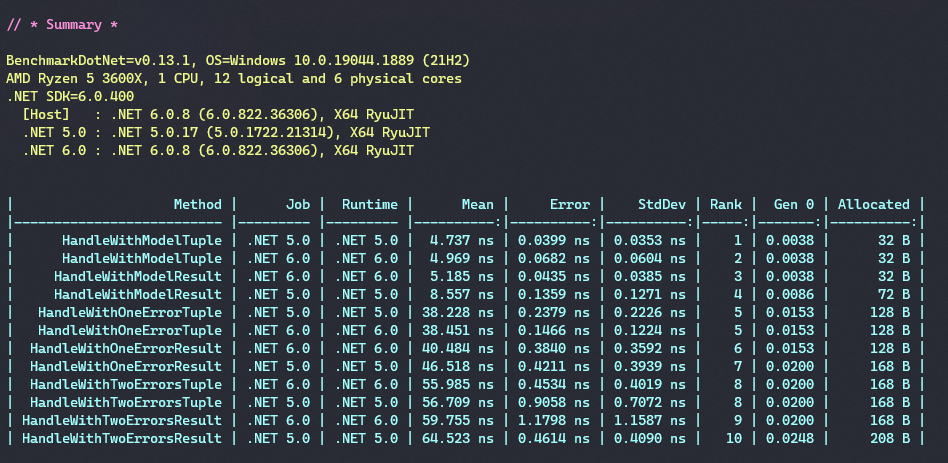
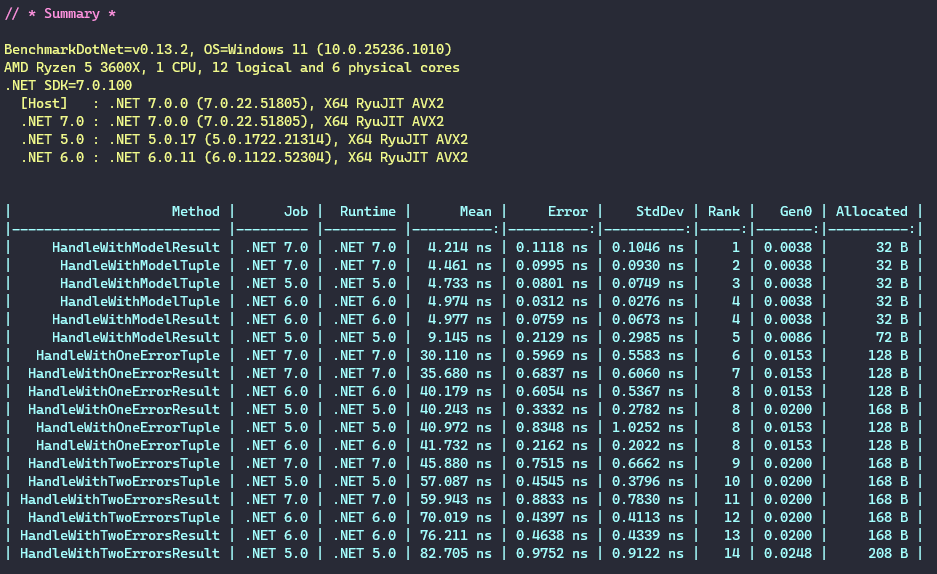
docs: Run the benchmarks for .NET7

Changed region(s): [[0.0, 0.0, 0.9904, 0.9978]]

diff --git a/tests/PowerUtils.Results.Benchmarks/Program.cs b/tests/PowerUtils.Results.Benchmarks/Program.cs
@@ -1,7 +1,7 @@
 using BenchmarkDotNet.Running;
 using PowerUtils.Results.Benchmarks.Tests;
 
-//BenchmarkRunner.Run<CreatingValueResultBenchmarks>();
+BenchmarkRunner.Run<CreatingValueResultBenchmarks>();
 
 //BenchmarkRunner.Run<CreatingErrorVoidResultBenchmarks>();
 //BenchmarkRunner.Run<CreatingErrorValueResultBenchmarks>();
@@ -12,4 +12,4 @@ using PowerUtils.Results.Benchmarks.Tests;
 //BenchmarkRunner.Run<TupleVsResultBenchmarks>();
 
 
-BenchmarkRunner.Run<CreatingVoidSuccessResultBenchmarks>();
+//BenchmarkRunner.Run<CreatingVoidSuccessResultBenchmarks>();

diff --git a/tests/PowerUtils.Results.Benchmarks/Tests/CreatingErrorValueResultBenchmarks.cs b/tests/PowerUtils.Results.Benchmarks/Tests/CreatingErrorValueResultBenchmarks.cs
@@ -7,6 +7,7 @@ namespace PowerUtils.Results.Benchmarks.Tests
 {
     [SimpleJob(RuntimeMoniker.Net50)]
     [SimpleJob(RuntimeMoniker.Net60)]
+    [SimpleJob(RuntimeMoniker.Net70)]
     [MemoryDiagnoser]
     [Orderer(SummaryOrderPolicy.FastestToSlowest)]
     [RankColumn]

diff --git a/tests/PowerUtils.Results.Benchmarks/Tests/CreatingErrorVoidResultBenchmarks.cs b/tests/PowerUtils.Results.Benchmarks/Tests/CreatingErrorVoidResultBenchmarks.cs
@@ -6,6 +6,7 @@ namespace PowerUtils.Results.Benchmarks.Tests
 {
     [SimpleJob(RuntimeMoniker.Net50)]
     [SimpleJob(RuntimeMoniker.Net60)]
+    [SimpleJob(RuntimeMoniker.Net70)]
     [MemoryDiagnoser]
     [Orderer(SummaryOrderPolicy.FastestToSlowest)]
     [RankColumn]

diff --git a/tests/PowerUtils.Results.Benchmarks/Tests/CreatingValueResultBenchmarks.cs b/tests/PowerUtils.Results.Benchmarks/Tests/CreatingValueResultBenchmarks.cs
@@ -7,6 +7,7 @@ namespace PowerUtils.Results.Benchmarks.Tests
 {
     [SimpleJob(RuntimeMoniker.Net50)]
     [SimpleJob(RuntimeMoniker.Net60)]
+    [SimpleJob(RuntimeMoniker.Net70)]
     [MemoryDiagnoser]
     [Orderer(SummaryOrderPolicy.FastestToSlowest)]
     [RankColumn]

diff --git a/tests/PowerUtils.Results.Benchmarks/Tests/CreatingVoidSuccessResultBenchmarks.cs b/tests/PowerUtils.Results.Benchmarks/Tests/CreatingVoidSuccessResultBenchmarks.cs
@@ -6,6 +6,7 @@ namespace PowerUtils.Results.Benchmarks.Tests
 {
     [SimpleJob(RuntimeMoniker.Net50)]
     [SimpleJob(RuntimeMoniker.Net60)]
+    [SimpleJob(RuntimeMoniker.Net70)]
     [MemoryDiagnoser]
     [Orderer(SummaryOrderPolicy.FastestToSlowest)]
     [RankColumn]

diff --git a/tests/PowerUtils.Results.Benchmarks/Tests/FactoryResultFromErrorOrValueBenchmarks.cs b/tests/PowerUtils.Results.Benchmarks/Tests/FactoryResultFromErrorOrValueBenchmarks.cs
@@ -8,6 +8,7 @@ namespace PowerUtils.Results.Benchmarks.Tests
 {
     [SimpleJob(RuntimeMoniker.Net50)]
     [SimpleJob(RuntimeMoniker.Net60)]
+    [SimpleJob(RuntimeMoniker.Net70)]
     [MemoryDiagnoser]
     [Orderer(SummaryOrderPolicy.FastestToSlowest)]
     [RankColumn]

diff --git a/tests/PowerUtils.Results.Benchmarks/Tests/TupleVsResultBenchmarks.cs b/tests/PowerUtils.Results.Benchmarks/Tests/TupleVsResultBenchmarks.cs
@@ -8,6 +8,7 @@ namespace PowerUtils.Results.Benchmarks.Tests
 {
     [SimpleJob(RuntimeMoniker.Net50)]
     [SimpleJob(RuntimeMoniker.Net60)]
+    [SimpleJob(RuntimeMoniker.Net70)]
     [MemoryDiagnoser]
     [Orderer(SummaryOrderPolicy.FastestToSlowest)]
     [RankColumn]
